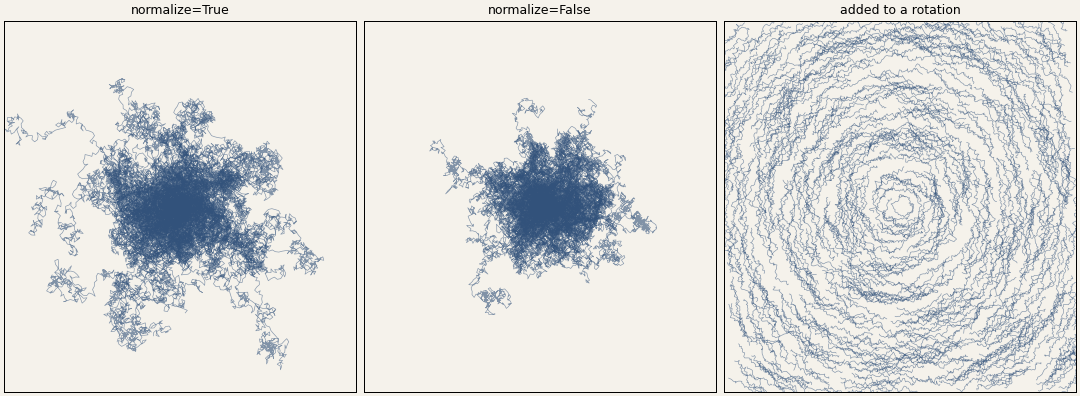
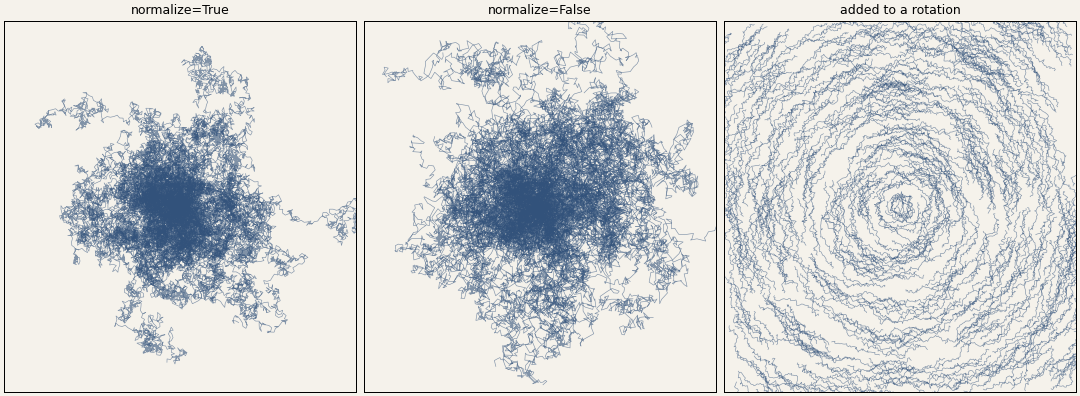
feat: NoiseField chooses its distribution, gaussian by default
genuary12 and genuary16 keep using uniform, so they do not change.

diff --git a/src/tstudio/vector_fields/noise.py b/src/tstudio/vector_fields/noise.py
@@ -8,37 +8,48 @@ from tstudio.vector_fields.base import FlowField
 
 class NoiseField(FlowField):
     """
-    Spatially-uncorrelated uniform random vector field.
+    Spatially-uncorrelated random vector field.
 
     Each call samples a fresh vector independently of position:
 
-        v ~ Uniform(-1, 1)^n
+        v ~ Normal(0, 1)^n     if ``distribution="gaussian"`` (default)
+        v ~ Uniform(-1, 1)^n   if ``distribution="uniform"``
 
     where n is the dimensionality of the input x.  Because each evaluation is
     independent, this field is non-deterministic and has no spatial coherence.
 
     If ``normalize=True`` (default) the random vector is divided by its L2
-    norm, producing a random unit direction.  Directions are not uniform:
-    sampling from a square favours the diagonals.
+    norm, producing a random unit direction.  All directions are equally likely
+    with ``"gaussian"``, while ``"uniform"`` samples from a square, which
+    favours the diagonals.
 
     Args:
         normalize: Whether to L2-normalise the output vector.
+        distribution: Distribution of each coordinate, either ``"gaussian"`` or
+            ``"uniform"``.
         **kwargs: Ignored.
     """
 
     def __init__(
         self,
         normalize: bool = True,
+        distribution: str = "gaussian",
         **kwargs,
     ):
         super().__init__()
+        if distribution not in ("gaussian", "uniform"):
+            raise ValueError(f"Unknown distribution: {distribution}")
         self.normalize = normalize
+        self.distribution = distribution
 
     def __call__(self, x: np.ndarray) -> np.ndarray:
         """
         Returns a new random vector with the same shape as x.
         """
-        noise = np.random.uniform(low=-1.0, high=1.0, size=x.shape)
+        if self.distribution == "gaussian":
+            noise = np.random.normal(size=x.shape)
+        else:
+            noise = np.random.uniform(low=-1.0, high=1.0, size=x.shape)
         if self.normalize:
             noise = normalize_vector(noise)
         return noise

diff --git a/demos/08-noise_field.py b/demos/08-noise_field.py
@@ -13,3 +13,11 @@ strokes(axes[0], noise, n_lines=60, n_steps=500, start=np.zeros(2), step=0.02)
 strokes(axes[1], vf.NoiseField(normalize=False), n_lines=60, n_steps=500, start=np.zeros(2), step=0.02)
 strokes(axes[2], noisy_rotation)
 save(fig, __file__)
+
+# One step from the center, many times, to show which directions come up.
+distributions = ["gaussian", "uniform"]
+fig, axes = panels([f'distribution="{d}"' for d in distributions])
+for ax, distribution in zip(axes, distributions):
+    field = vf.NoiseField(distribution=distribution)
+    strokes(ax, field, n_lines=4000, n_steps=1, step=1.5, start=np.zeros(2), alpha=0.05)
+save(fig, __file__, "_directions")

diff --git a/artwork/genuary2026/genuary12.py b/artwork/genuary2026/genuary12.py
@@ -39,7 +39,7 @@ def run():
         np.array([-5,-5]),
         direction=1,
     )
-    fieldnoise = tstudio.vector_fields.NoiseField(normalize=True)
+    fieldnoise = tstudio.vector_fields.NoiseField(normalize=True, distribution="uniform")
     wnoise = tstudio.scalar_fields.GaussianField(
         np.array([5,5]),
         sigma=5.0,

diff --git a/artwork/genuary2026/genuary16.py b/artwork/genuary2026/genuary16.py
@@ -32,7 +32,7 @@ def run():
         direction=1,
         normalize=True,
     )
-    fieldNoise = tstudio.vector_fields.NoiseField()
+    fieldNoise = tstudio.vector_fields.NoiseField(distribution="uniform")
     fieldGaussian1 = tstudio.scalar_fields.GaussianField(
         center=np.array([-6, -6]),
         sigma=5.0,

diff --git a/demos/README.md b/demos/README.md
@@ -96,9 +96,13 @@ Rays from a center: `v(x) = direction · (x − center)`. `direction=1` points o
 
 [`08-noise_field.py`](08-noise_field.py)
 
-A new random vector at every call, regardless of the position. Following it gives a random walk. Without normalization the steps are shorter on average, so the walk spreads less. Added to another field, it makes the lines rough.
+A new random vector at every call, regardless of the position. Following it gives a random walk. Without normalization the steps also vary in length. Added to another field, it makes the lines rough.
 
 ![Random walks with and without normalization, and a noisy rotation](outputs/08-noise_field.png)
+
+Each coordinate comes from a normal distribution by default, which makes all directions equally likely. With `distribution="uniform"` the vectors come from a square, which favors the diagonals. Each line below is one vector:
+
+![Directions of the gaussian and uniform distributions](outputs/08-noise_field_directions.png)
 
 ## Combining fields
 

diff --git a/README.md b/README.md
@@ -28,7 +28,7 @@ A vector field maps a 2-D point to a 2-D vector: `F(x) → np.ndarray`.  Most fi
 | --- | --- |
 | `RotationField(center, direction)` | `v(x) = direction · [−rᵧ, rₓ]` where `r = x − center` |
 | `ExpansionField(center, direction)` | `v(x) = direction · (x − center)` |
-| `NoiseField()` | `v ~ Uniform(−1, 1)ⁿ` (fresh sample every call) |
+| `NoiseField(distribution)` | `v ~ Normal(0, 1)ⁿ` by default, or `v ~ Uniform(−1, 1)ⁿ` with `distribution="uniform"` (fresh sample every call) |
 
 #### Composite fields — combine other fields into a tree
 
